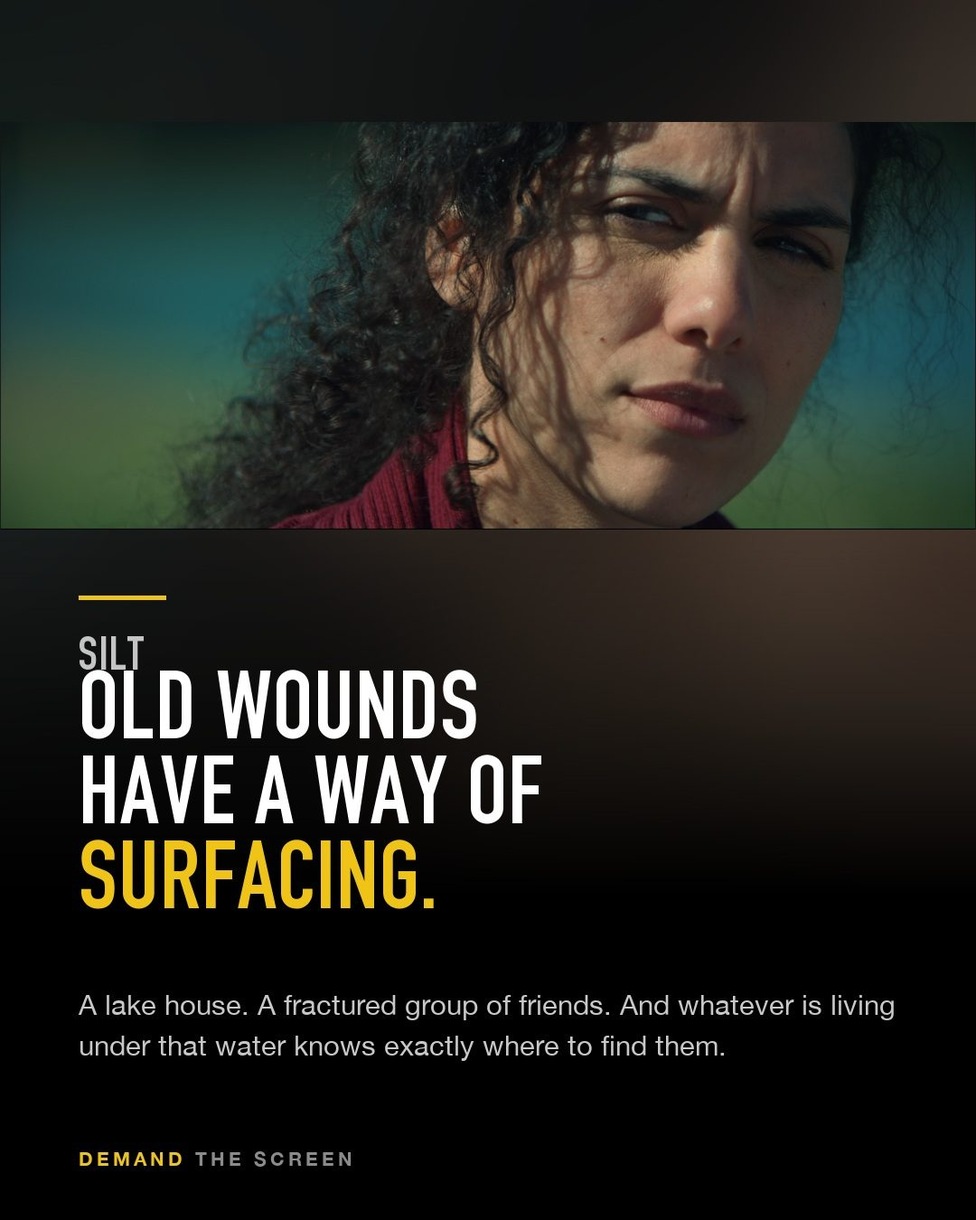
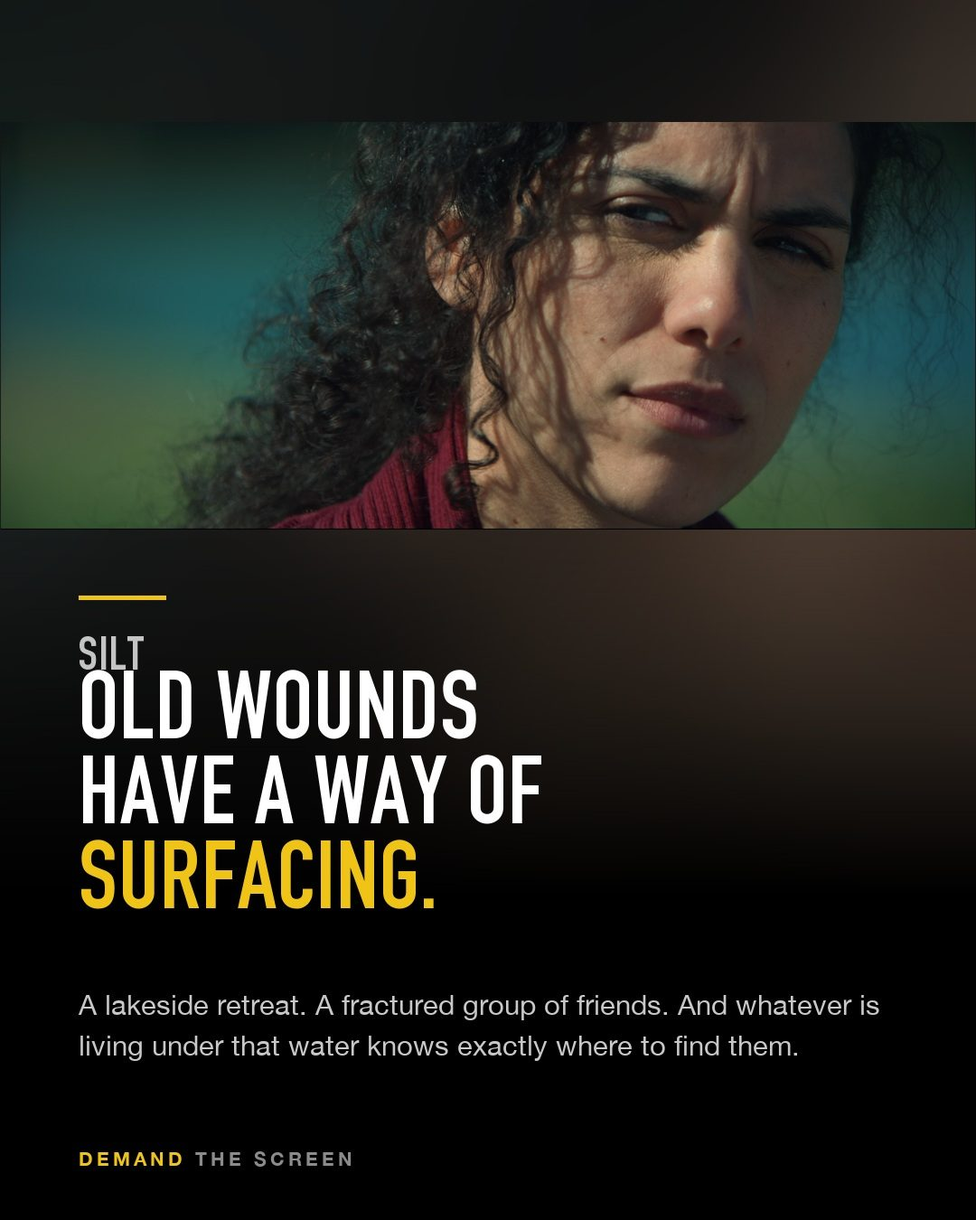
Silt trailer: watch, download (1080p/720p), three captions, press links
Also publishes the held 'lakeside retreat' copy fix. Posters are now pinned to
the two credit-correct files the kit has always carried, so the 09-22 Silt
export (retired writer credit in its billing) cannot ship by accident.

Changed region(s): [[0.0917, 0.8089, 0.9167, 0.8711]]

diff --git a/index.html b/index.html
@@ -124,6 +124,26 @@ h2{font-size:clamp(25px,5.6vw,36px); line-height:1.02; margin:9px 0 0}
 .copy.done{background:var(--ok); border-color:var(--ok); color:#0B2216}
 mark{background:rgba(239,196,23,.17); color:var(--gold); border-radius:3px; padding:0 2px}
 
+/* --------------------------------------------------------------- trailer */
+.tr-play{display:block; position:relative; margin-top:22px; border-radius:var(--r); overflow:hidden;
+  border:1px solid var(--line); background:#000}
+.tr-play img{display:block; width:100%; height:auto}
+.tr-play .tr-btn{position:absolute; left:50%; top:50%; width:74px; height:52px; margin:-26px 0 0 -37px;
+  background:rgba(0,0,0,.72); border:2px solid var(--gold); border-radius:12px}
+.tr-play .tr-btn:after{content:""; position:absolute; left:29px; top:14px; border-style:solid;
+  border-width:11px 0 11px 19px; border-color:transparent transparent transparent var(--gold)}
+.tr-play:hover .tr-btn{background:var(--gold)}
+.tr-play:hover .tr-btn:after{border-left-color:#0F0F0F}
+.tr-dl{display:flex; flex-wrap:wrap; gap:10px; margin-top:14px}
+.tr-dl a{flex:1 1 200px; display:block; text-align:center; text-decoration:none; padding:13px 14px;
+  border-radius:8px; font:600 12px/1.3 "IBM Plex Sans"; letter-spacing:.1em; text-transform:uppercase;
+  border:1px solid var(--line); background:var(--panel-2); color:var(--text)}
+.tr-dl a.pri{background:var(--gold); border-color:var(--gold); color:#0F0F0F}
+.tr-dl a small{display:block; margin-top:4px; font-weight:500; letter-spacing:.04em;
+  text-transform:none; opacity:.75}
+.tr-press{margin-top:14px; font-size:13px; color:var(--muted-2)}
+.tr-press a{color:var(--gold)}
+
 /* ------------------------------------------------------------------ misc */
 .two{display:grid; gap:12px; margin-top:22px}
 @media(min-width:660px){.two{grid-template-columns:1fr 1fr}}
@@ -267,6 +287,23 @@ body.has-role section[data-roles].on{display:block}
 </div>
 
 <main>
+<section id="sTrailer" data-roles="captain filmmaker supporter team"><div class="wrap">
+<div class="step-no">NEW · SILT</div><h2>The official trailer is out</h2><p class="sub">Two ways to post it. <b>Share the YouTube link</b> wherever links work: every view there counts for the film. <b>Upload the file itself</b> to Instagram, TikTok and Reels, where a link gets buried. Please post it whole and don't re-cut it.</p><a class="tr-play" href="https://youtu.be/qDUQ15-nxTM" target="_blank" rel="noopener" aria-label="Watch the Silt trailer on YouTube"><img src="images/trailer-silt-official-trailer-thumb.jpg" alt="Silt, official trailer" loading="lazy" width="1280" height="720"><span class="tr-btn"></span></a><div class="tr-dl"><a href="https://youtu.be/qDUQ15-nxTM" target="_blank" rel="noopener">Open on YouTube<small>youtu.be/qDUQ15-nxTM</small></a><a class="pri" href="https://hpwihogzttscakcycmio.supabase.co/storage/v1/object/public/dts/trailer/SILT-Official-Trailer-1080p.mp4?download=SILT-Official-Trailer-1080p.mp4" download="SILT-Official-Trailer-1080p.mp4">Download 1080p<small>49 MB · for posting</small></a><a class="" href="https://hpwihogzttscakcycmio.supabase.co/storage/v1/object/public/dts/trailer/SILT-Official-Trailer-720p.mp4?download=SILT-Official-Trailer-720p.mp4" download="SILT-Official-Trailer-720p.mp4">Download 720p<small>24 MB · quicker on a phone</small></a></div><p class="tr-press">Already covered by <a href="https://bloody-disgusting.com/movie/3969667/tommy-wiseau-disturbs-in-lakeside-cosmic-horror-movie-silt-trailer/" target="_blank" rel="noopener">Bloody Disgusting</a> · <a href="https://www.horrorsociety.com/2026/09/29/tommy-wiseau-stars-in-new-psychological-horror-thriller-first-look-images-and-trailer/" target="_blank" rel="noopener">Horror Society</a> · <a href="https://ihorror.com/silt-trailer-tommy-wiseau-aaron-jay-rome-cosmic-horror/" target="_blank" rel="noopener">iHorror</a>. Those links are worth sharing too.</p><div class="cards"><article class="card"><div class="card-h"><h3>With the trailer</h3><button class="copy" data-k="cap-trailer-0">Copy</button></div><div class="card-b" data-body="cap-trailer-0">The SILT trailer is out.
+
+A lakeside retreat, a fractured group of friends, and whatever is living under the water. Tommy Wiseau, Vernon Davis, Andrea Sixtos, Olivia Grace Applegate, Malcolm Goodwin, David Anders.
+
+It's not going to theaters through a studio. It's being booked by audience request, one city at a time. Put in your ZIP and it writes the request for you → <mark>{your link}</mark>
+
+Trailer: https://youtu.be/qDUQ15-nxTM</div></article>
+<article class="card"><div class="card-h"><h3>The press one</h3><button class="copy" data-k="cap-trailer-1">Copy</button></div><div class="card-b" data-body="cap-trailer-1">Bloody Disgusting, Horror Society and iHorror have all run the trailer for SILT, with Tommy Wiseau as the man who owns the lake.
+
+No distributor. It's going to theaters because people ask for it. The first stop is the Lyric in Fort Collins on Saturday, October 10, as a double feature with DEAD DAWN.
+
+Watch: https://youtu.be/qDUQ15-nxTM
+Ask for your city → <mark>{your link}</mark></div></article>
+<article class="card"><div class="card-h"><h3>One line, for a story or a reply</h3><button class="copy" data-k="cap-trailer-2">Copy</button></div><div class="card-b" data-body="cap-trailer-2">SILT, official trailer → https://youtu.be/qDUQ15-nxTM · want it in <mark>{your city}</mark>? → <mark>{your link}</mark></div></article></div>
+</div></section>
+
 <section id="s0"><div class="wrap"><div class="rolepick"><div class="rp-eyebrow">Start here</div><h2 class="rp-q">Which one are you?</h2><p class="rp-sub">Pick one and this page will show you only your part. You can change it any time.</p><div class="rp-btns"><button class="rolebtn" data-role="supporter" type="button"><span class="rb-t">I signed up</span><span class="rb-s">and that is about it so far</span></button><button class="rolebtn" data-role="captain" type="button"><span class="rb-t">I'm helping run a city</span><span class="rb-s">one of several, and that is the point</span></button><button class="rolebtn" data-role="filmmaker" type="button"><span class="rb-t">I'm a filmmaker</span><span class="rb-s">here for the model</span></button><button class="rolebtn" data-role="team" type="button"><span class="rb-t">I made one of them</span><span class="rb-s">cast, crew or investor</span></button></div></div><div id="rolepaths"><div class="rolepath" data-path="supporter"><h2>One thing first. It takes twenty seconds.</h2><ol class="steps"><li><strong>Send the demand email to your theater.</strong><span>Already written, already addressed. You read it and press send. A signup is a number; an email from your own inbox is a person a programmer can count. <a href="https://demandthescreen.com/send-demand">Send it now &rarr;</a></span></li><li><strong>Then tell people, and keep telling them.</strong><span>Your family chat. The group you are already in. One friend who would genuinely come. Not a campaign - just mentioning it when it fits.</span></li><li><strong>Want to do more than that?</strong><span>Pick <strong>I'm helping run a city</strong> above and the page will show you the images and the words, all of it already made.</span></li></ol><p class="closer">That is the whole ask. Everything else on this page is optional.</p></div><div class="rolepath" data-path="captain"><h2>Your city opens when people keep hearing about it.</h2><ol class="steps"><li><strong>Put your link in your bio, today.</strong><span>Instagram and TikTok do not make a link in a caption clickable, so a link inside a post is dead text. Your bio link works on this post and every post you have ever made. Get yours at <a href="https://demandthescreen.com/kit">demandthescreen.com/kit</a>, then write &ldquo;link in bio&rdquo; on the post.</span></li><li><strong>Post something, then post again next week.</strong><span>Scroll down. Take any image, take any caption, mix them however you like. One post is a start, not a finish - the same city seeing it three times is what actually moves.</span></li><li><strong>Put it where you already talk to people.</strong><span>Facebook groups. The family chat. Your neighbourhood thread. A group chat of six people who would come beats a post to six hundred who scroll past.</span></li></ol><p class="closer">There are usually several captains in a city and that is deliberate &mdash; one person cannot reach a whole town. Find the others in your city in the community, split the ground, and tell each other what worked.</p></div><div class="rolepath" data-path="filmmaker"><h2>You are here for the model, not for my films.</h2><ol class="steps"><li><strong>Watch the mechanism.</strong><span>Enough people in one city ask their local arthouse directly and a programmer looks. Not a festival, not a sales agent. Demonstrated demand, addressed to a named theater, sent by real people from their own email.</span></li><li><strong>If you post, post the model.</strong><span>Use the <strong>mission</strong> images and captions below. They are about whether an audience can open a screen without a studio, which is the part your people care about. The film captions will not land with them.</span></li><li><strong>Keep telling filmmakers who are stuck.</strong><span>Not once. Whenever it comes up - and with this crowd it comes up constantly. The person with a finished film and no route is who this is for.</span></li></ol><p class="closer">These two films are the crash-test dummy. If it holds, the version you point at your own film is the next thing built.</p></div><div class="rolepath" data-path="team"><h2>You made one of these. Nobody else can say that.</h2><ol class="steps"><li><strong>Put your link in your bio.</strong><span>Get it at <a href="https://demandthescreen.com/kit">demandthescreen.com/kit</a>. Everything you post should carry it, or none of it is credited to you.</span></li><li><strong>Say &ldquo;I worked on this&rdquo; - and keep saying it.</strong><span>That sentence is the most valuable one available to this campaign and only about fifty people on earth can use it. Use the <strong>films</strong> images below, not the mission ones.</span></li><li><strong>Go where your people already are.</strong><span>Your group chats, your industry threads, the people who would turn up because it is you asking. Your networks outperform everyone else's here and it is not close.</span></li></ol><p class="closer">Your names go on the pre-show slate, on a real screen, in front of a paying audience. And if a theater ever writes back to someone you sent this to, forward it to team@demandthescreen.com - replies land with them, not us.</p></div></div><div class="roleall"><button class="showall" type="button">Show me everything instead</button></div></div></section>
 
 <section id="sLadder" data-roles="captain team"><div class="wrap">
@@ -378,7 +415,7 @@ I'd rather back something running the experiment in the open.
 
 DEAD DAWN — a post office clerk everyone overlooks, and the morning something dark descends. Dark comedy, small-town true crime, a cult anti-hero at the middle of it.
 
-SILT — a lake house, a fractured group of friends, and whatever is living under the water.
+SILT — a lakeside retreat, a fractured group of friends, and whatever is living under the water.
 
 Nobody greenlit them. They were made anyway, and now they're being booked the same way — by asking. Put in your ZIP and it does the rest.
 
@@ -388,7 +425,7 @@ Nobody greenlit them. They were made anyway, and now they're being booked the sa
 DEAD DAWN. Ashley Lenz, Olivia Grace Applegate, Malcolm Goodwin, David Anders, Krishna Smitha, Michael Papajohn, Isaiah LaBorde. Produced by Isaiah LaBorde. Written and directed by Aaron Jay Rome.
 
 It's going to theaters without a studio. Your ZIP is the whole ask → <mark>{your link}</mark></div></article>
-<article class="card"><div class="card-h"><h3>Silt</h3><button class="copy" data-k="cap-films-2">Copy</button></div><div class="card-b" data-body="cap-films-2">A lake house. A fractured group of friends. A weekend that was supposed to fix everything. Old wounds have a way of surfacing — and whatever is living under that water knows exactly where to find them.
+<article class="card"><div class="card-h"><h3>Silt</h3><button class="copy" data-k="cap-films-2">Copy</button></div><div class="card-b" data-body="cap-films-2">A lakeside retreat. A fractured group of friends. A weekend that was supposed to fix everything. Old wounds have a way of surfacing — and whatever is living under that water knows exactly where to find them.
 
 SILT. Andrea Sixtos, David Anders, Malcolm Goodwin, Tommy Wiseau, Olivia Grace Applegate, Michael Papajohn, Vernon Davis, Krishna Smitha, Isaiah LaBorde.
 
@@ -427,7 +464,7 @@ No studio, no distributor — they're being booked by audience request, one city
 
 IMDb: imdb.me/aaronjayrome</div></article></div>
   <div class="two" id="films-two"><div class="film"><h3>Dead Dawn</h3><div class="genre">Dark comedy · Small-town true crime · Cult anti-hero</div><p>Anna-Beth is the post office clerk everyone overlooks. She can't say no to a bad customer, a worse boss, or the controlling ex who won't let go — until something dark descends with the dawn and the woman nobody saw coming discovers exactly what she's capable of.</p><p class="cast">Ashley Lenz · Olivia Grace Applegate · Malcolm Goodwin · David Anders · Krishna Smitha · Michael Papajohn · Isaiah LaBorde</p><p class="cast" style="margin-top:8px">Produced by Isaiah LaBorde · Written and directed by Aaron Jay Rome</p><p style="margin:12px 0 0"><a href="https://www.imdb.com/title/tt35397180/" target="_blank" rel="noopener">★ View on IMDb</a></p></div>
-<div class="film"><h3>Silt</h3><div class="genre">Cosmic thriller · Cabin-in-the-woods · Elevated horror</div><p>A lake house. A fractured group of friends. A weekend that was supposed to fix everything. Old wounds have a way of surfacing — and whatever is living under that water knows exactly where to find them.</p><p class="cast">Andrea Sixtos · David Anders · Malcolm Goodwin · Tommy Wiseau · Olivia Grace Applegate · Michael Papajohn · Vernon Davis · Krishna Smitha · Isaiah LaBorde</p><p class="cast" style="margin-top:8px">Story by Vernon Davis &amp; Tiffany Toney · Produced by Isaiah LaBorde · Executive producer Vernon Davis · Written and directed by Aaron Jay Rome</p><p style="margin:12px 0 0"><a href="https://www.imdb.com/title/tt35855318/" target="_blank" rel="noopener">★ View on IMDb</a></p></div></div>
+<div class="film"><h3>Silt</h3><div class="genre">Cosmic thriller · Cabin-in-the-woods · Elevated horror</div><p>A lakeside retreat. A fractured group of friends. A weekend that was supposed to fix everything. Old wounds have a way of surfacing — and whatever is living under that water knows exactly where to find them.</p><p class="cast">Andrea Sixtos · David Anders · Malcolm Goodwin · Tommy Wiseau · Olivia Grace Applegate · Michael Papajohn · Vernon Davis · Krishna Smitha · Isaiah LaBorde</p><p class="cast" style="margin-top:8px">Story by Vernon Davis &amp; Tiffany Toney · Produced by Isaiah LaBorde · Executive producer Vernon Davis · Written and directed by Aaron Jay Rome</p><p style="margin:12px 0 0"><a href="https://www.imdb.com/title/tt35855318/" target="_blank" rel="noopener">★ View on IMDb</a></p></div></div>
 </div></section>
 
 <section id="s7" data-roles="captain filmmaker supporter team"><div class="wrap">
@@ -480,7 +517,7 @@ IMDb: imdb.me/aaronjayrome</div></article></div>
 /* ENHANCEMENT ONLY. Every tile, caption, DM and answer is already in the HTML
    above. If this never runs, the page still shows all of it — stacked with
    headings instead of tabs. Nothing here is load-bearing for content. */
-const D = {"captions": {"mission": [["The short one", "You can put a movie in your local theater. That's it, that's the post.\n\nTwo finished independent films are going out with no studio and no distributor \u2014 you put in your ZIP, it finds the actual independent cinema nearest you, and it writes the request for you. Twenty seconds.\n\n{LINK}"], ["The filmmaker one", "Every filmmaker I know has a finished film sitting on a drive.\n\nThe only route most of them are offered is a festival run and a sales agent, and most never get either. So a couple of people are trying the other thing: ask the theaters directly, and let the audience be the reason.\n\nIt's running in public right now, counts and all. Worth watching even if you never sign up.\n\n{LINK}"], ["The local one", "I want to see a real independent film play in {CITY} again.\n\nThere's a thing running right now where you put in your ZIP, it matches you to the actual indie cinema nearest you, and it writes the request to their programmer for you. Takes twenty seconds and it's free.\n\nIf enough of us in {CITY} do it, a real programmer looks at {CITY}. That's the whole mechanism.\n\n{LINK}"], ["The honest one", "This might not work. That's why I like it.\n\nTwo independent features, no studio, no distributor, going straight at theaters and asking audiences to make the case. The numbers are public \u2014 including the cities that aren't working.\n\nI'd rather back something running the experiment in the open.\n\n{LINK}"], ["One line, for a story or a reply", "You can put a movie in your local theater. Twenty seconds and a ZIP code \u2192 {LINK}"]], "films": [["Both films", "Two independent features I want in a theater near me.\n\nDEAD DAWN \u2014 a post office clerk everyone overlooks, and the morning something dark descends. Dark comedy, small-town true crime, a cult anti-hero at the middle of it.\n\nSILT \u2014 a lake house, a fractured group of friends, and whatever is living under the water.\n\nNobody greenlit them. They were made anyway, and now they're being booked the same way \u2014 by asking. Put in your ZIP and it does the rest.\n\n{LINK}"], ["Dead Dawn", "Anna-Beth is the post office clerk everyone overlooks. She can't say no to a bad customer, a worse boss, or the ex who won't let go \u2014 until something dark descends with the dawn and the woman nobody saw coming finds out exactly what she's capable of.\n\nDEAD DAWN. Ashley Lenz, Olivia Grace Applegate, Malcolm Goodwin, David Anders, Krishna Smitha, Michael Papajohn, Isaiah LaBorde. Produced by Isaiah LaBorde. Written and directed by Aaron Jay Rome.\n\nIt's going to theaters without a studio. Your ZIP is the whole ask \u2192 {LINK}"], ["Silt", "A lake house. A fractured group of friends. A weekend that was supposed to fix everything. Old wounds have a way of surfacing \u2014 and whatever is living under that water knows exactly where to find them.\n\nSILT. Andrea Sixtos, David Anders, Malcolm Goodwin, Tommy Wiseau, Olivia Grace Applegate, Michael Papajohn, Vernon Davis, Krishna Smitha, Isaiah LaBorde.\n\nStory by Vernon Davis & Tiffany Toney. Produced by Isaiah LaBorde. Executive producer Vernon Davis. Written and directed by Aaron Jay Rome.\n\n{LINK}"], ["The cast hook", "Six actors appear in BOTH films: Malcolm Goodwin, Krishna Smitha, Olivia Grace Applegate, David Anders, Michael Papajohn and Isaiah LaBorde \u2014 who also produced both.\n\nTommy Wiseau and Vernon Davis are in SILT, which Davis also executive produced.\n\nNo studio, no distributor \u2014 they're being booked by audience request, one city at a time. Put in your ZIP and it writes the request for you.\n\n{LINK}"], ["One line, for a story or a reply", "Two indie features, no studio, going to theaters by request. Twenty seconds \u2192 {LINK}"]]}, "dms": [["Someone who'd genuinely see it", "Hey \u2014 do you still go to the movies downtown? There's an indie feature trying to get booked in {CITY} and it takes twenty seconds to put your ZIP in and add your name to the ask. No money, no sign-up hell. {LINK} \u2014 would mean a lot if you did it."], ["A filmmaker friend", "You'll find this interesting regardless of whether you sign up. Two finished features are being released by asking theaters directly instead of going the festival/sales-agent route, and the whole thing is running in public with the counts visible. {LINK}"], ["Somebody local with a following", "Long shot \u2014 I'm helping get an independent film in front of a programmer in {CITY}. It works on volume of local requests, so one post from you would do more than a hundred from me. Happy to send you the images and caption ready to go. {LINK}"], ["Family / not-a-film-person", "Doing a thing to get a movie into a theater here in {CITY}. It's genuinely twenty seconds \u2014 you put in your zip code and it writes an email to the local cinema for you. {LINK}"], ["The follow-up, 3\u20134 days later", "Hey, did the theater ever write back to you? If they did, could you forward it to team@demandthescreen.com? The reply goes to your inbox rather than ours, so that's the only way we see it \u2014 and a programmer replying is the most useful thing that happens all week."]]};
+const D = {"captions": {"mission": [["The short one", "You can put a movie in your local theater. That's it, that's the post.\n\nTwo finished independent films are going out with no studio and no distributor \u2014 you put in your ZIP, it finds the actual independent cinema nearest you, and it writes the request for you. Twenty seconds.\n\n{LINK}"], ["The filmmaker one", "Every filmmaker I know has a finished film sitting on a drive.\n\nThe only route most of them are offered is a festival run and a sales agent, and most never get either. So a couple of people are trying the other thing: ask the theaters directly, and let the audience be the reason.\n\nIt's running in public right now, counts and all. Worth watching even if you never sign up.\n\n{LINK}"], ["The local one", "I want to see a real independent film play in {CITY} again.\n\nThere's a thing running right now where you put in your ZIP, it matches you to the actual indie cinema nearest you, and it writes the request to their programmer for you. Takes twenty seconds and it's free.\n\nIf enough of us in {CITY} do it, a real programmer looks at {CITY}. That's the whole mechanism.\n\n{LINK}"], ["The honest one", "This might not work. That's why I like it.\n\nTwo independent features, no studio, no distributor, going straight at theaters and asking audiences to make the case. The numbers are public \u2014 including the cities that aren't working.\n\nI'd rather back something running the experiment in the open.\n\n{LINK}"], ["One line, for a story or a reply", "You can put a movie in your local theater. Twenty seconds and a ZIP code \u2192 {LINK}"]], "trailer": [["With the trailer", "The SILT trailer is out.\n\nA lakeside retreat, a fractured group of friends, and whatever is living under the water. Tommy Wiseau, Vernon Davis, Andrea Sixtos, Olivia Grace Applegate, Malcolm Goodwin, David Anders.\n\nIt's not going to theaters through a studio. It's being booked by audience request, one city at a time. Put in your ZIP and it writes the request for you \u2192 {LINK}\n\nTrailer: https://youtu.be/qDUQ15-nxTM"], ["The press one", "Bloody Disgusting, Horror Society and iHorror have all run the trailer for SILT, with Tommy Wiseau as the man who owns the lake.\n\nNo distributor. It's going to theaters because people ask for it. The first stop is the Lyric in Fort Collins on Saturday, October 10, as a double feature with DEAD DAWN.\n\nWatch: https://youtu.be/qDUQ15-nxTM\nAsk for your city \u2192 {LINK}"], ["One line, for a story or a reply", "SILT, official trailer \u2192 https://youtu.be/qDUQ15-nxTM \u00b7 want it in {CITY}? \u2192 {LINK}"]], "films": [["Both films", "Two independent features I want in a theater near me.\n\nDEAD DAWN \u2014 a post office clerk everyone overlooks, and the morning something dark descends. Dark comedy, small-town true crime, a cult anti-hero at the middle of it.\n\nSILT \u2014 a lakeside retreat, a fractured group of friends, and whatever is living under the water.\n\nNobody greenlit them. They were made anyway, and now they're being booked the same way \u2014 by asking. Put in your ZIP and it does the rest.\n\n{LINK}"], ["Dead Dawn", "Anna-Beth is the post office clerk everyone overlooks. She can't say no to a bad customer, a worse boss, or the ex who won't let go \u2014 until something dark descends with the dawn and the woman nobody saw coming finds out exactly what she's capable of.\n\nDEAD DAWN. Ashley Lenz, Olivia Grace Applegate, Malcolm Goodwin, David Anders, Krishna Smitha, Michael Papajohn, Isaiah LaBorde. Produced by Isaiah LaBorde. Written and directed by Aaron Jay Rome.\n\nIt's going to theaters without a studio. Your ZIP is the whole ask \u2192 {LINK}"], ["Silt", "A lakeside retreat. A fractured group of friends. A weekend that was supposed to fix everything. Old wounds have a way of surfacing \u2014 and whatever is living under that water knows exactly where to find them.\n\nSILT. Andrea Sixtos, David Anders, Malcolm Goodwin, Tommy Wiseau, Olivia Grace Applegate, Michael Papajohn, Vernon Davis, Krishna Smitha, Isaiah LaBorde.\n\nStory by Vernon Davis & Tiffany Toney. Produced by Isaiah LaBorde. Executive producer Vernon Davis. Written and directed by Aaron Jay Rome.\n\n{LINK}"], ["The cast hook", "Six actors appear in BOTH films: Malcolm Goodwin, Krishna Smitha, Olivia Grace Applegate, David Anders, Michael Papajohn and Isaiah LaBorde \u2014 who also produced both.\n\nTommy Wiseau and Vernon Davis are in SILT, which Davis also executive produced.\n\nNo studio, no distributor \u2014 they're being booked by audience request, one city at a time. Put in your ZIP and it writes the request for you.\n\n{LINK}"], ["One line, for a story or a reply", "Two indie features, no studio, going to theaters by request. Twenty seconds \u2192 {LINK}"]]}, "dms": [["Someone who'd genuinely see it", "Hey \u2014 do you still go to the movies downtown? There's an indie feature trying to get booked in {CITY} and it takes twenty seconds to put your ZIP in and add your name to the ask. No money, no sign-up hell. {LINK} \u2014 would mean a lot if you did it."], ["A filmmaker friend", "You'll find this interesting regardless of whether you sign up. Two finished features are being released by asking theaters directly instead of going the festival/sales-agent route, and the whole thing is running in public with the counts visible. {LINK}"], ["Somebody local with a following", "Long shot \u2014 I'm helping get an independent film in front of a programmer in {CITY}. It works on volume of local requests, so one post from you would do more than a hundred from me. Happy to send you the images and caption ready to go. {LINK}"], ["Family / not-a-film-person", "Doing a thing to get a movie into a theater here in {CITY}. It's genuinely twenty seconds \u2014 you put in your zip code and it writes an email to the local cinema for you. {LINK}"], ["The follow-up, 3\u20134 days later", "Hey, did the theater ever write back to you? If they did, could you forward it to team@demandthescreen.com? The reply goes to your inbox rather than ours, so that's the only way we see it \u2014 and a programmer replying is the most useful thing that happens all week."]]};
 document.body.classList.add("js-on");
 
 const $ = s => document.querySelector(s);
@@ -540,7 +577,7 @@ function fill(t){
            .replace(/\{your (link|city)\}/g, m => "<mark>" + m + "</mark>");
 }
 function paint(){
-  for (const lane of ["mission", "films"])
+  for (const lane of Object.keys(D.captions))
     (D.captions[lane] || []).forEach(function(pair, i){
       const el = document.querySelector('[data-body="cap-' + lane + '-' + i + '"]');
       if (el) el.innerHTML = fill(pair[1]);

diff --git a/kit.js b/kit.js
@@ -7,7 +7,7 @@
 /* ENHANCEMENT ONLY. Every tile, caption, DM and answer is already in the HTML
    above. If this never runs, the page still shows all of it — stacked with
    headings instead of tabs. Nothing here is load-bearing for content. */
-const D = {"captions": {"mission": [["The short one", "You can put a movie in your local theater. That's it, that's the post.\n\nTwo finished independent films are going out with no studio and no distributor \u2014 you put in your ZIP, it finds the actual independent cinema nearest you, and it writes the request for you. Twenty seconds.\n\n{LINK}"], ["The filmmaker one", "Every filmmaker I know has a finished film sitting on a drive.\n\nThe only route most of them are offered is a festival run and a sales agent, and most never get either. So a couple of people are trying the other thing: ask the theaters directly, and let the audience be the reason.\n\nIt's running in public right now, counts and all. Worth watching even if you never sign up.\n\n{LINK}"], ["The local one", "I want to see a real independent film play in {CITY} again.\n\nThere's a thing running right now where you put in your ZIP, it matches you to the actual indie cinema nearest you, and it writes the request to their programmer for you. Takes twenty seconds and it's free.\n\nIf enough of us in {CITY} do it, a real programmer looks at {CITY}. That's the whole mechanism.\n\n{LINK}"], ["The honest one", "This might not work. That's why I like it.\n\nTwo independent features, no studio, no distributor, going straight at theaters and asking audiences to make the case. The numbers are public \u2014 including the cities that aren't working.\n\nI'd rather back something running the experiment in the open.\n\n{LINK}"], ["One line, for a story or a reply", "You can put a movie in your local theater. Twenty seconds and a ZIP code \u2192 {LINK}"]], "films": [["Both films", "Two independent features I want in a theater near me.\n\nDEAD DAWN \u2014 a post office clerk everyone overlooks, and the morning something dark descends. Dark comedy, small-town true crime, a cult anti-hero at the middle of it.\n\nSILT \u2014 a lake house, a fractured group of friends, and whatever is living under the water.\n\nNobody greenlit them. They were made anyway, and now they're being booked the same way \u2014 by asking. Put in your ZIP and it does the rest.\n\n{LINK}"], ["Dead Dawn", "Anna-Beth is the post office clerk everyone overlooks. She can't say no to a bad customer, a worse boss, or the ex who won't let go \u2014 until something dark descends with the dawn and the woman nobody saw coming finds out exactly what she's capable of.\n\nDEAD DAWN. Ashley Lenz, Olivia Grace Applegate, Malcolm Goodwin, David Anders, Krishna Smitha, Michael Papajohn, Isaiah LaBorde. Produced by Isaiah LaBorde. Written and directed by Aaron Jay Rome.\n\nIt's going to theaters without a studio. Your ZIP is the whole ask \u2192 {LINK}"], ["Silt", "A lake house. A fractured group of friends. A weekend that was supposed to fix everything. Old wounds have a way of surfacing \u2014 and whatever is living under that water knows exactly where to find them.\n\nSILT. Andrea Sixtos, David Anders, Malcolm Goodwin, Tommy Wiseau, Olivia Grace Applegate, Michael Papajohn, Vernon Davis, Krishna Smitha, Isaiah LaBorde.\n\nStory by Vernon Davis & Tiffany Toney. Produced by Isaiah LaBorde. Executive producer Vernon Davis. Written and directed by Aaron Jay Rome.\n\n{LINK}"], ["The cast hook", "Six actors appear in BOTH films: Malcolm Goodwin, Krishna Smitha, Olivia Grace Applegate, David Anders, Michael Papajohn and Isaiah LaBorde \u2014 who also produced both.\n\nTommy Wiseau and Vernon Davis are in SILT, which Davis also executive produced.\n\nNo studio, no distributor \u2014 they're being booked by audience request, one city at a time. Put in your ZIP and it writes the request for you.\n\n{LINK}"], ["One line, for a story or a reply", "Two indie features, no studio, going to theaters by request. Twenty seconds \u2192 {LINK}"]]}, "dms": [["Someone who'd genuinely see it", "Hey \u2014 do you still go to the movies downtown? There's an indie feature trying to get booked in {CITY} and it takes twenty seconds to put your ZIP in and add your name to the ask. No money, no sign-up hell. {LINK} \u2014 would mean a lot if you did it."], ["A filmmaker friend", "You'll find this interesting regardless of whether you sign up. Two finished features are being released by asking theaters directly instead of going the festival/sales-agent route, and the whole thing is running in public with the counts visible. {LINK}"], ["Somebody local with a following", "Long shot \u2014 I'm helping get an independent film in front of a programmer in {CITY}. It works on volume of local requests, so one post from you would do more than a hundred from me. Happy to send you the images and caption ready to go. {LINK}"], ["Family / not-a-film-person", "Doing a thing to get a movie into a theater here in {CITY}. It's genuinely twenty seconds \u2014 you put in your zip code and it writes an email to the local cinema for you. {LINK}"], ["The follow-up, 3\u20134 days later", "Hey, did the theater ever write back to you? If they did, could you forward it to team@demandthescreen.com? The reply goes to your inbox rather than ours, so that's the only way we see it \u2014 and a programmer replying is the most useful thing that happens all week."]]};
+const D = {"captions": {"mission": [["The short one", "You can put a movie in your local theater. That's it, that's the post.\n\nTwo finished independent films are going out with no studio and no distributor \u2014 you put in your ZIP, it finds the actual independent cinema nearest you, and it writes the request for you. Twenty seconds.\n\n{LINK}"], ["The filmmaker one", "Every filmmaker I know has a finished film sitting on a drive.\n\nThe only route most of them are offered is a festival run and a sales agent, and most never get either. So a couple of people are trying the other thing: ask the theaters directly, and let the audience be the reason.\n\nIt's running in public right now, counts and all. Worth watching even if you never sign up.\n\n{LINK}"], ["The local one", "I want to see a real independent film play in {CITY} again.\n\nThere's a thing running right now where you put in your ZIP, it matches you to the actual indie cinema nearest you, and it writes the request to their programmer for you. Takes twenty seconds and it's free.\n\nIf enough of us in {CITY} do it, a real programmer looks at {CITY}. That's the whole mechanism.\n\n{LINK}"], ["The honest one", "This might not work. That's why I like it.\n\nTwo independent features, no studio, no distributor, going straight at theaters and asking audiences to make the case. The numbers are public \u2014 including the cities that aren't working.\n\nI'd rather back something running the experiment in the open.\n\n{LINK}"], ["One line, for a story or a reply", "You can put a movie in your local theater. Twenty seconds and a ZIP code \u2192 {LINK}"]], "trailer": [["With the trailer", "The SILT trailer is out.\n\nA lakeside retreat, a fractured group of friends, and whatever is living under the water. Tommy Wiseau, Vernon Davis, Andrea Sixtos, Olivia Grace Applegate, Malcolm Goodwin, David Anders.\n\nIt's not going to theaters through a studio. It's being booked by audience request, one city at a time. Put in your ZIP and it writes the request for you \u2192 {LINK}\n\nTrailer: https://youtu.be/qDUQ15-nxTM"], ["The press one", "Bloody Disgusting, Horror Society and iHorror have all run the trailer for SILT, with Tommy Wiseau as the man who owns the lake.\n\nNo distributor. It's going to theaters because people ask for it. The first stop is the Lyric in Fort Collins on Saturday, October 10, as a double feature with DEAD DAWN.\n\nWatch: https://youtu.be/qDUQ15-nxTM\nAsk for your city \u2192 {LINK}"], ["One line, for a story or a reply", "SILT, official trailer \u2192 https://youtu.be/qDUQ15-nxTM \u00b7 want it in {CITY}? \u2192 {LINK}"]], "films": [["Both films", "Two independent features I want in a theater near me.\n\nDEAD DAWN \u2014 a post office clerk everyone overlooks, and the morning something dark descends. Dark comedy, small-town true crime, a cult anti-hero at the middle of it.\n\nSILT \u2014 a lakeside retreat, a fractured group of friends, and whatever is living under the water.\n\nNobody greenlit them. They were made anyway, and now they're being booked the same way \u2014 by asking. Put in your ZIP and it does the rest.\n\n{LINK}"], ["Dead Dawn", "Anna-Beth is the post office clerk everyone overlooks. She can't say no to a bad customer, a worse boss, or the ex who won't let go \u2014 until something dark descends with the dawn and the woman nobody saw coming finds out exactly what she's capable of.\n\nDEAD DAWN. Ashley Lenz, Olivia Grace Applegate, Malcolm Goodwin, David Anders, Krishna Smitha, Michael Papajohn, Isaiah LaBorde. Produced by Isaiah LaBorde. Written and directed by Aaron Jay Rome.\n\nIt's going to theaters without a studio. Your ZIP is the whole ask \u2192 {LINK}"], ["Silt", "A lakeside retreat. A fractured group of friends. A weekend that was supposed to fix everything. Old wounds have a way of surfacing \u2014 and whatever is living under that water knows exactly where to find them.\n\nSILT. Andrea Sixtos, David Anders, Malcolm Goodwin, Tommy Wiseau, Olivia Grace Applegate, Michael Papajohn, Vernon Davis, Krishna Smitha, Isaiah LaBorde.\n\nStory by Vernon Davis & Tiffany Toney. Produced by Isaiah LaBorde. Executive producer Vernon Davis. Written and directed by Aaron Jay Rome.\n\n{LINK}"], ["The cast hook", "Six actors appear in BOTH films: Malcolm Goodwin, Krishna Smitha, Olivia Grace Applegate, David Anders, Michael Papajohn and Isaiah LaBorde \u2014 who also produced both.\n\nTommy Wiseau and Vernon Davis are in SILT, which Davis also executive produced.\n\nNo studio, no distributor \u2014 they're being booked by audience request, one city at a time. Put in your ZIP and it writes the request for you.\n\n{LINK}"], ["One line, for a story or a reply", "Two indie features, no studio, going to theaters by request. Twenty seconds \u2192 {LINK}"]]}, "dms": [["Someone who'd genuinely see it", "Hey \u2014 do you still go to the movies downtown? There's an indie feature trying to get booked in {CITY} and it takes twenty seconds to put your ZIP in and add your name to the ask. No money, no sign-up hell. {LINK} \u2014 would mean a lot if you did it."], ["A filmmaker friend", "You'll find this interesting regardless of whether you sign up. Two finished features are being released by asking theaters directly instead of going the festival/sales-agent route, and the whole thing is running in public with the counts visible. {LINK}"], ["Somebody local with a following", "Long shot \u2014 I'm helping get an independent film in front of a programmer in {CITY}. It works on volume of local requests, so one post from you would do more than a hundred from me. Happy to send you the images and caption ready to go. {LINK}"], ["Family / not-a-film-person", "Doing a thing to get a movie into a theater here in {CITY}. It's genuinely twenty seconds \u2014 you put in your zip code and it writes an email to the local cinema for you. {LINK}"], ["The follow-up, 3\u20134 days later", "Hey, did the theater ever write back to you? If they did, could you forward it to team@demandthescreen.com? The reply goes to your inbox rather than ours, so that's the only way we see it \u2014 and a programmer replying is the most useful thing that happens all week."]]};
 document.body.classList.add("js-on");
 
 const $ = s => document.querySelector(s);
@@ -67,7 +67,7 @@ function fill(t){
            .replace(/\{your (link|city)\}/g, m => "<mark>" + m + "</mark>");
 }
 function paint(){
-  for (const lane of ["mission", "films"])
+  for (const lane of Object.keys(D.captions))
     (D.captions[lane] || []).forEach(function(pair, i){
       const el = document.querySelector('[data-body="cap-' + lane + '-' + i + '"]');
       if (el) el.innerHTML = fill(pair[1]);
